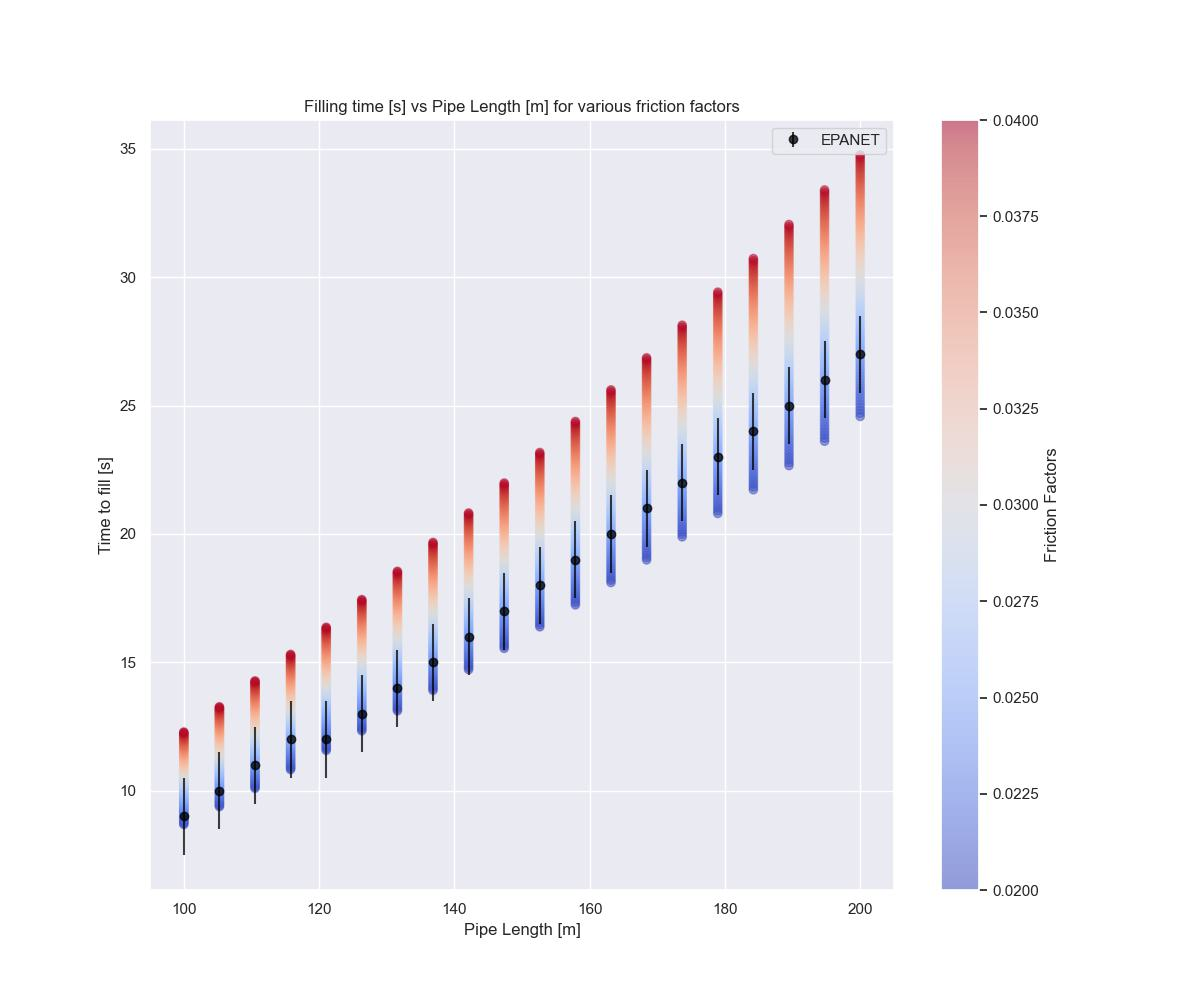
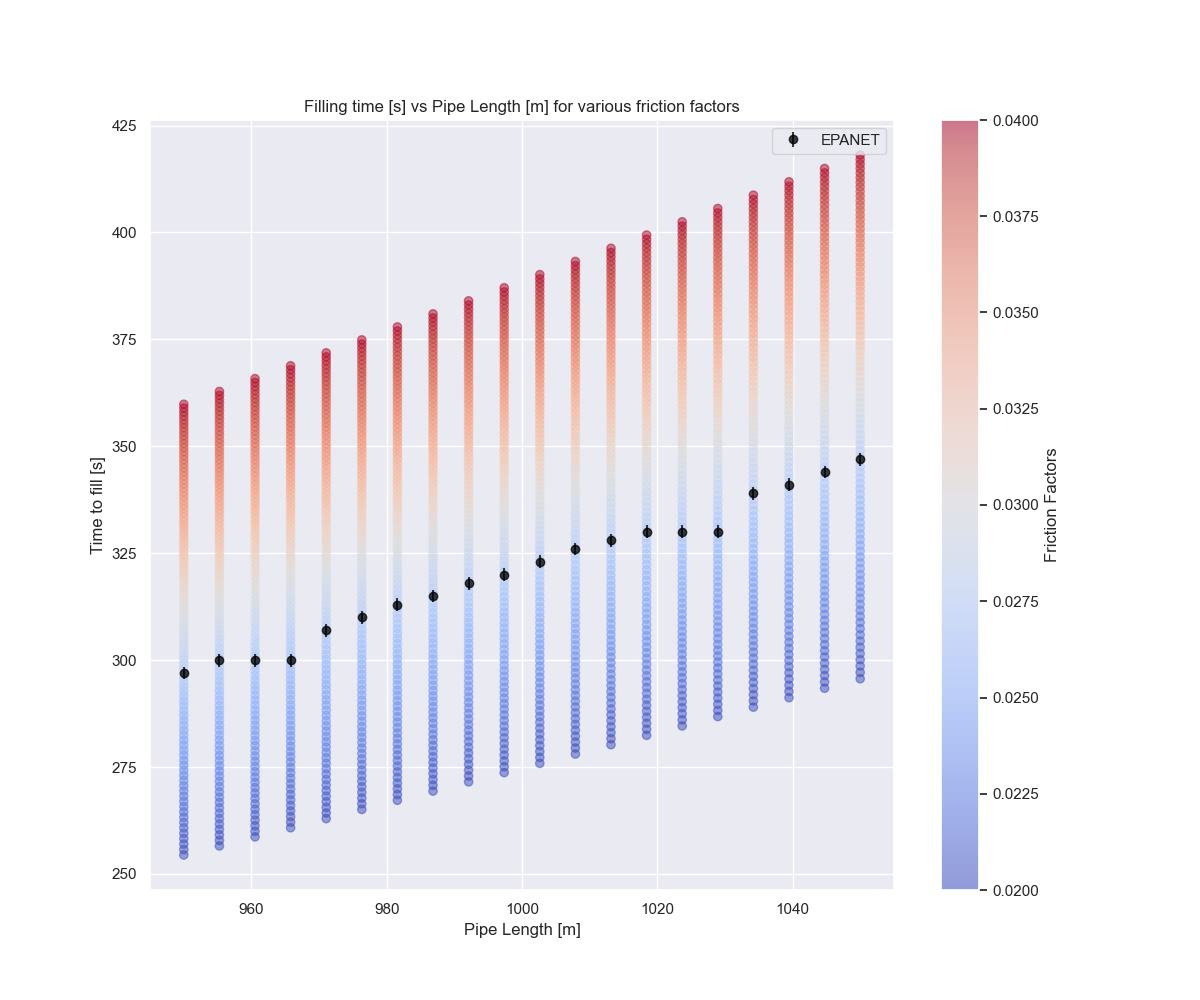
experiments on tank height complete

diff --git a/experiment_effects_of_tank_height.py b/experiment_effects_of_tank_height.py
@@ -1,0 +1,130 @@
+from experiment_find_optimal_friction_factor import create_and_run_epanet_simulation, get_difference
+from PipeConverter import PipeConverter
+from ModificationStrategy import Strategy
+from tqdm import tqdm
+import numpy as np
+import os
+import seaborn as sns
+import matplotlib.pyplot as plt
+import matplotlib
+
+# set seaborn theme
+cmap = sns.color_palette("coolwarm", as_cmap=True)
+sns.set_theme()
+
+
+def plot_all_htm(pipe_heights, epanet_fill_times_by_htm, thms, simulation_fill_times, param, filename):
+    # need to find max and min ff for scaling colours
+    norm = matplotlib.colors.Normalize(vmin=np.min(thms), vmax=np.max(thms))
+
+    for ff in thms:
+        simulation_fill_time = epanet_fill_times_by_htm[ff]
+        plt.scatter(pipe_heights, simulation_fill_time, alpha=0.5, c=[ff for _ in pipe_heights], norm=norm, cmap=cmap)
+
+    plt.errorbar(pipe_heights, simulation_fill_times, yerr=1.5, label="Numerical Simulation", color="black", fmt="o",
+                 alpha=0.75)
+    plt.title(f'Filling time [s] vs {param} for various tank height multipliers')
+    plt.xlabel(param)
+    plt.ylabel('Time to fill [s]')
+    cb = plt.colorbar()
+    cb.set_label("Tank Height Multipliers")
+    plt.legend()
+    fig = plt.gcf()
+    fig.set_size_inches(12, 10)
+    filepath = os.path.join(os.getcwd(), 'results', f'all_thms_{filename}.jpg')
+    plt.savefig(filepath, dpi=100)
+    plt.show()
+
+
+def plot_one_thm(pipe_heights, epanet_fill_times, simulation_fill_time, best_thm, param, filename):
+    plt.errorbar(pipe_heights, epanet_fill_times, yerr=1.5, label="EPANET", color="black", fmt="o", alpha=0.75,
+                 capsize=2)
+    plt.scatter(pipe_heights,
+                simulation_fill_time,
+                alpha=0.5,
+                c=np.where(np.abs(epanet_fill_times - simulation_fill_time) <= 1.5, 'g', 'r'))  # in or out of range
+    plt.legend(["Simulation", "EPANET"])
+    plt.title(f'Filling time [s] vs {param} for best tank height multiplier = {best_thm:.4f}')
+    plt.xlabel(param)
+    plt.ylabel('Time to fill [s]')
+    fig = plt.gcf()
+    fig.set_size_inches(12, 10)
+    filepath = os.path.join(os.getcwd(), 'results', f'one_htm_{filename}.jpg')
+    plt.savefig(filepath, dpi=100)
+    plt.show()
+
+
+def run_ff_simulations_up(heights, pipe_length, diameter, pressure, roughness, thm):
+    template_filepath = "up_template.inp"
+
+    epanet_fill_times, simulation_fill_times = [], []
+    for height in tqdm(heights, total=len(heights)):
+        # run epanet simulation
+        # Note: for a flat pipe, the friction factor doesn't affect the pipe equivalent length since it is always 0.44
+        epanet_fill_times.append(create_and_run_epanet_simulation(pipe_length, diameter, pressure, roughness, height,
+                                                                  template_filepath,
+                                                                  strategy=Strategy.SINGLE_TANK_CV_CONSTANT_PRESSURE,
+                                                                  tank_height_multiplier=thm))
+
+        # run numerical integration for different ff
+        converter = PipeConverter()
+        converter.update_pressure(pressure)
+        simulation_fill_times.append(converter.fill_time(pipe_length, height, diameter, update_pressure=False))
+
+    return epanet_fill_times, simulation_fill_times
+
+
+def run_tank_height_multiplier_simulations_height(pipe_heights, tank_height_multipliers, pressure, diameter, loss,
+                                                  roughness, length):
+    template_filepath = "up_template.inp"
+    epanet_fill_times_by_thm = {thm: [] for thm in tank_height_multipliers}
+    simulation_fill_times = []
+    for height in tqdm(pipe_heights, total=len(pipe_heights)):
+        # get numerical simulation fill time
+
+        converter = PipeConverter()
+        converter.update_pressure(pressure)
+        fill_time = converter.fill_time(length, height, diameter, update_pressure=False)
+        simulation_fill_times.append(fill_time)
+
+        for thm in tank_height_multipliers:
+            epanet_fill_times_by_thm[thm].append(
+                create_and_run_epanet_simulation(length, diameter, pressure, roughness, height, template_filepath,
+                                                 strategy=Strategy.SINGLE_TANK_CV_CONSTANT_PRESSURE,
+                                                 tank_height_multiplier=thm))
+
+    # find the best thm value and plot compared to simulation (lowest loss)
+    simulation_fill_times = np.array(simulation_fill_times)
+    differences = []
+    for ff, result in epanet_fill_times_by_thm.items():
+        differences.append((get_difference(simulation_fill_times, np.array(result), loss=loss), ff))
+
+    _, best_thm_index = sorted(differences, key=lambda tup: tup[0])[0]
+
+    return simulation_fill_times, epanet_fill_times_by_thm, best_thm_index
+
+
+if __name__ == "__main__":
+    heights = np.linspace(0, 10, 20)
+    tank_height_multipliers = np.linspace(0.1, 1.3, 30)
+    pipe_length = 1050
+    diameter = 0.3
+    pressure = 20
+    roughness = 100
+    tank_height_multiplier = 0.5
+
+    simulation_fill_times, epanet_fill_times_by_thm, best_thm_index = run_tank_height_multiplier_simulations_height(
+        pipe_heights=heights,
+        tank_height_multipliers=tank_height_multipliers,
+        pressure=pressure,
+        diameter=diameter,
+        loss="mse",
+        roughness=100,
+        length=pipe_length
+    )
+
+    plot_all_htm(heights, epanet_fill_times_by_thm, tank_height_multipliers, simulation_fill_times,
+                 "Pipe change in elevation [m]", "height")
+
+    plot_one_thm(heights, epanet_fill_times_by_thm[best_thm_index], simulation_fill_times, best_thm_index,
+                 "Pipe change in elevation [m]", "height")

diff --git a/ModificationStrategy.py b/ModificationStrategy.py
@@ -1,16 +1,17 @@
 from enum import Enum
 from ParsedPipe import ParsedPipe
+import numpy as np
 
 
 class Strategy(Enum):
     MULTIPLE_TANKS = 1
-    SINGLE_TANK_CV = 2                      # the pressure is assumed to be 2x change in height
+    SINGLE_TANK_CV = 2  # the pressure is assumed to be 2x change in height
     SINGLE_TANK_PSV = 3
-    SINGLE_TANK_CV_CONSTANT_PRESSURE = 4    # pressure is assumed to be constant
+    SINGLE_TANK_CV_CONSTANT_PRESSURE = 4  # pressure is assumed to be constant
 
 
 class ModificationStrategy:
-    def __init__(self, file_parser, strategy: Strategy = Strategy.SINGLE_TANK_CV) -> None:
+    def __init__(self, file_parser, strategy: Strategy = Strategy.SINGLE_TANK_CV, tank_height_multiplier: float = 1):
         self.strategy = strategy
         self.file_parser = file_parser
         self.methods = {
@@ -19,6 +20,7 @@ class ModificationStrategy:
             Strategy.SINGLE_TANK_PSV: self.single_tank_psv,
             Strategy.SINGLE_TANK_CV_CONSTANT_PRESSURE: self.single_tank_cv_constant_pressure
         }
+        self.tank_height_multiplier = tank_height_multiplier
 
     def evaluate(self, pipe: ParsedPipe) -> None:
         self.methods[self.strategy](pipe)
@@ -27,24 +29,35 @@ class ModificationStrategy:
     def multiple_tanks(self, pipe: ParsedPipe) -> None:
         raise NotImplementedError()
 
+    def update_tank_height_diameter(self, pipe: ParsedPipe) -> None:
+        volume = 3.141 / 4 * (float(pipe.diameter) ** 2) * float(pipe.length)
+        # the tank height is scaled by a global factor. This is used to test the effect of tank height on resistance
+        tank_d_z = pipe.d_z * self.tank_height_multiplier if pipe.d_z > 0.1 else 0.1
+        tank_diameter = np.sqrt(4 * volume / np.pi / tank_d_z)
+        # print(f"height: {tank_d_z}, diameter: {tank_diameter}")
+        pipe.update_tank_info(tank_diameter, tank_d_z)
+        return
+
     def single_tank_cv(self, pipe: ParsedPipe, update_pressure=True) -> None:
+        # calculate tank equivalent parameters
+        self.update_tank_height_diameter(pipe)
+
         # insert a new tank with volume the same as that of the original pipe
-        # print(pipe.diameter_equivalent)
-        tank_id = self.file_parser.add_tank(f"{pipe.node_a}_{pipe.node_b}_tank", pipe.elevation_min, pipe.d_z,
-                                            pipe.diameter_equivalent)
+        tank_id = self.file_parser.add_tank(f"{pipe.node_a}_{pipe.node_b}_tank", pipe.elevation_min, pipe.tank_height,
+                                            pipe.tank_diameter)
 
         # lower node; pipe sloping up (need check valve to prevent backflow)
-        equivalent_pipe = self.file_parser.converter.equivalent_length(pipe.length, -pipe.d_z, pipe.diameter, update_pressure=update_pressure)
+        equivalent_pipe = self.file_parser.converter.equivalent_length(pipe.length, -pipe.d_z, pipe.diameter,
+                                                                       update_pressure=update_pressure)
         self.file_parser.add_pipe(pipe.node_a, tank_id, equivalent_pipe, pipe.diameter, "CV")
 
         # upper node; pipe sloping down (need check valve to prevent backflow)
-        equivalent_pipe = self.file_parser.converter.equivalent_length(pipe.length, pipe.d_z, pipe.diameter, update_pressure=update_pressure)
+        equivalent_pipe = self.file_parser.converter.equivalent_length(pipe.length, pipe.d_z, pipe.diameter,
+                                                                       update_pressure=update_pressure)
         self.file_parser.add_pipe(pipe.node_b, tank_id, equivalent_pipe, pipe.diameter, "CV")
 
         # update the rules
-        # if the pipe is flat, the tank is assumed to have a height of 1m
-        tank_level = 1 if pipe.d_z == 0 else pipe.d_z
-        self.file_parser.add_rule(tank_id, tank_level, pipe.pipe_id)
+        self.file_parser.add_rule(tank_id, pipe.tank_height, pipe.pipe_id)
         return
 
     def single_tank_cv_constant_pressure(self, pipe: ParsedPipe) -> None:
@@ -54,7 +67,8 @@ class ModificationStrategy:
     def single_tank_psv(self, pipe: ParsedPipe) -> None:
         raise NotImplementedError()
         # TODO: I think this is broken
-        tank_id = self.file_parser.add_tank(f"{pipe.node_a}_{pipe.node_b}_tank", pipe.elevation_min, pipe.d_z, pipe.diameter_equivalent)
+        tank_id = self.file_parser.add_tank(f"{pipe.node_a}_{pipe.node_b}_tank", pipe.elevation_min, pipe.d_z,
+                                            pipe.tank_diameter)
 
         # lower node; pipe sloping up (need check valve to prevent backflow)
         equivalent_pipe = self.file_parser.converter.equivalent_length(pipe.length, -pipe.d_z, pipe.diameter)

diff --git a/experiment_find_optimal_friction_factor.py b/experiment_find_optimal_friction_factor.py
@@ -92,7 +92,8 @@ def get_difference(a: np.ndarray, b: np.ndarray, loss: str = "mse"):
 
 
 def create_and_run_epanet_simulation(length: float, diameter: float = 300, pressure: float = 20,
-                                     roughness: float = 100, height: float = 10, template_prefix=None, strategy=Strategy.SINGLE_TANK_CV) -> float:
+                                     roughness: float = 100, height: float = 10, template_prefix=None,
+                                     strategy=Strategy.SINGLE_TANK_CV, tank_height_multiplier: float = 1) -> float:
     """
     Creates an epanet file based on flat_template.inp
     :param length: pipe length
@@ -124,7 +125,7 @@ def create_and_run_epanet_simulation(length: float, diameter: float = 300, press
         f.write(epanet_file)
 
     # # run simulations
-    wrapper = WNTRWrapper(epanet_file_path, is_iwn=True, strategy=strategy)
+    wrapper = WNTRWrapper(epanet_file_path, is_iwn=True, strategy=strategy, tank_height_multiplier=tank_height_multiplier)
     simulation_output_path = os.path.join(os.getcwd(), 'reports', epanet_file_path[:-4])
     wrapper.run_sim(simulation_output_path)
 
@@ -133,8 +134,8 @@ def create_and_run_epanet_simulation(length: float, diameter: float = 300, press
         simulation_report = f.read()
 
     # cleanup
-    for file in glob(os.path.join(os.getcwd(), 'reports', "*")):
-        os.remove(file)
+    # for file in glob(os.path.join(os.getcwd(), 'reports', "*")):
+    #     os.remove(file)
 
     # parse the report to find when the pipe opens (e.g. has filled)
     for line in simulation_report.splitlines():
@@ -298,7 +299,7 @@ def run_experiments():
     Friction factor changes over pressure
     :return:
     """
-    pipe_lengths = list(np.linspace(100, 200, 20))
+    pipe_lengths = list(np.linspace(950, 1050, 20))
     friction_factors = np.linspace(0.02, 0.04, 100)
 
     # default params are pressure head of 20 and 300mm diameter
@@ -315,14 +316,14 @@ def run_experiments():
 
     # diameter
     length = 1000
-    diameters = list(np.linspace(0.1, 3, 50))
+    diameters = list(np.linspace(0.1, 3, 20))
     epanet_fill_times, simulation_fill_times_by_ff, best_ff = run_ff_simulations_diameter(length, friction_factors,
                                                                                           pressure, diameters, loss,
                                                                                           roughness)
     plot_all(diameters, epanet_fill_times, friction_factors, simulation_fill_times_by_ff, best_ff, "Pipe Diameter [m]", "diameter")
 
     # pressure
-    pressures = np.linspace(5, 100, 50)
+    pressures = np.linspace(5, 100, 20)
     epanet_fill_times, simulation_fill_times_by_ff, best_ff = run_ff_simulations_diameter(length, friction_factors,
                                                                                           pressure, diameters, loss,
                                                                                           roughness)

diff --git a/experiment_effects_of_height.py b/experiment_effects_of_height.py
@@ -15,7 +15,10 @@ def run_ff_simulations_up(heights, pipe_length, diameter, pressure, roughness):
     for height in tqdm(heights, total=len(heights)):
         # run epanet simulation
         # Note: for a flat pipe, the friction factor doesn't affect the pipe equivalent length since it is always 0.44
-        epanet_fill_times.append(create_and_run_epanet_simulation(pipe_length, diameter, pressure, roughness, height, template_filepath, strategy=Strategy.SINGLE_TANK_CV_CONSTANT_PRESSURE))
+        epanet_fill_times.append(
+            create_and_run_epanet_simulation(pipe_length, diameter, pressure, roughness, height, template_filepath,
+                                             strategy=Strategy.SINGLE_TANK_CV_CONSTANT_PRESSURE,
+                                             tank_height_multiplier=0.92))
 
         # run numerical integration for different ff
         converter = PipeConverter()
@@ -26,12 +29,13 @@ def run_ff_simulations_up(heights, pipe_length, diameter, pressure, roughness):
 
 
 if __name__ == "__main__":
-    heights = np.linspace(0, 5, 40)
-    pipe_length = 1000
+    heights = np.linspace(0, 10, 40)
+    pipe_length = 1050
     diameter = 0.3
     pressure = 20
     roughness = 100
-    epanet_fill_times, simulation_fill_times = run_ff_simulations_up(heights, pipe_length, diameter, pressure, roughness)
+    epanet_fill_times, simulation_fill_times = run_ff_simulations_up(heights, pipe_length, diameter, pressure,
+                                                                     roughness)
     # sns.scatterplot(heights, epanet_fill_times, label="Epanet")
     # sns.scatterplot(heights, simulation_fill_times, label="Simulation")
     # plt.show()

diff --git a/FileParser.py b/FileParser.py
@@ -7,7 +7,8 @@ import argparse
 
 
 class FileParser:
-    def __init__(self, file_path: str, converter: PipeConverter, strategy: Strategy = Strategy.SINGLE_TANK_CV) -> None:
+    def __init__(self, file_path: str, converter: PipeConverter, strategy: Strategy = Strategy.SINGLE_TANK_CV,
+                 tank_height_multiplier: float = 1) -> None:
         self.file_path = file_path
         with open(file_path, 'r+') as file:
             self.file = file.read().splitlines()
@@ -35,7 +36,7 @@ class FileParser:
         self.converter.update_pressure(self.pressure)
 
         # initialize modification strategy
-        self.modification_strategy = ModificationStrategy(self, strategy)
+        self.modification_strategy = ModificationStrategy(self, strategy, tank_height_multiplier)
 
     def calculate_required_pressure(self) -> float:
         """
@@ -234,14 +235,7 @@ class FileParser:
 
         d_z, elevation_min = elevation_b - elevation_a, elevation_a
 
-        volume = 3.141 / 4 * (float(diameter) ** 2) * float(length)
-        if d_z == 0:
-            diameter_equivalent = np.sqrt(4 * volume / np.pi / 1)
-        else:
-            diameter_equivalent = np.sqrt(4 * volume / np.pi / d_z)
-
-        return ParsedPipe(pipe_id, node_a, node_b, float(length), diameter, d_z, elevation_min, volume,
-                          diameter_equivalent)
+        return ParsedPipe(pipe_id, node_a, node_b, float(length), diameter, d_z, elevation_min)
 
     def create_intermittent_network(self) -> None:
         # all pipes in the network must be initially closed

diff --git a/WNTRWrapper.py b/WNTRWrapper.py
@@ -7,10 +7,12 @@ from ModificationStrategy import Strategy
 
 
 class WNTRWrapper:
-    def __init__(self, file: str, is_iwn: bool = False, strategy: Strategy = Strategy.SINGLE_TANK_CV) -> None:
+    def __init__(self, file: str, is_iwn: bool = False, strategy: Strategy = Strategy.SINGLE_TANK_CV,
+                 tank_height_multiplier: float = 1) -> None:
         self.file = file
         self.is_iwn = is_iwn
         self.strategy = strategy
+        self.tank_height_multiplier = tank_height_multiplier
         if is_iwn:
             self.file_iwn = self.create_modified_network()
             self.wn = wntr.network.WaterNetworkModel(self.file_iwn)
@@ -20,7 +22,8 @@ class WNTRWrapper:
     def create_modified_network(self) -> str:
         # TODO: ideally these are passed as options to the class
         converter = PipeConverter()
-        parser = FileParser(self.file, converter, strategy=self.strategy)
+        parser = FileParser(self.file, converter, strategy=self.strategy,
+                            tank_height_multiplier=self.tank_height_multiplier)
 
         parser.create_intermittent_network()
         reconstructed = parser.reconstruct_file()

diff --git a/ParsedPipe.py b/ParsedPipe.py
@@ -1,6 +1,12 @@
+from typing import Optional
+
+
 class ParsedPipe:
+    """
+    DTO for pipes -> including their equivalent counterparts
+    """
     def __init__(self, pipe_id: str, node_a: str, node_b: str, length: float, diameter: float, d_z: float,
-                 elevation_min: float, volume: float, diameter_equivalent: float):
+                 elevation_min: float, tank_diameter: Optional[float] = None, tank_height: Optional[float] = None):
         self.pipe_id = pipe_id
         self.node_a = node_a
         self.node_b = node_b
@@ -8,5 +14,9 @@ class ParsedPipe:
         self.diameter = diameter
         self.d_z = d_z
         self.elevation_min = elevation_min
-        self.volume = volume
-        self.diameter_equivalent = diameter_equivalent
+        self.tank_diameter = tank_diameter
+        self.tank_height = tank_height
+
+    def update_tank_info(self, tank_diameter: float, tank_height: float) -> None:
+        self.tank_height = tank_height
+        self.tank_diameter = tank_diameter

diff --git a/FrictionFactorCalculator.py b/FrictionFactorCalculator.py
@@ -48,5 +48,5 @@ class FrictionFactorCalculator:
     def get_friction_factor(self) -> float:
         # 0.0263 for pressure 40
         # 0.0282 for pressure 20
-        return 0.0275
+        return 0.0273
         return self.lookup_table[self.length_closest][self.diameter_closest][self.pressure_closest]
